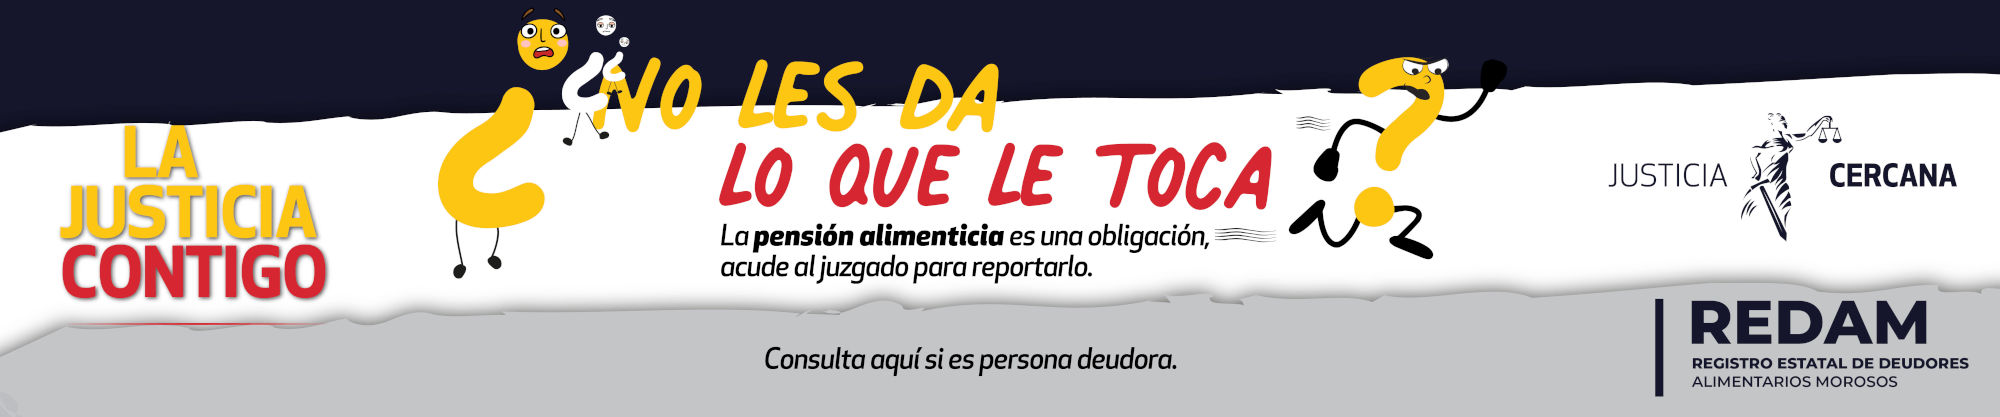
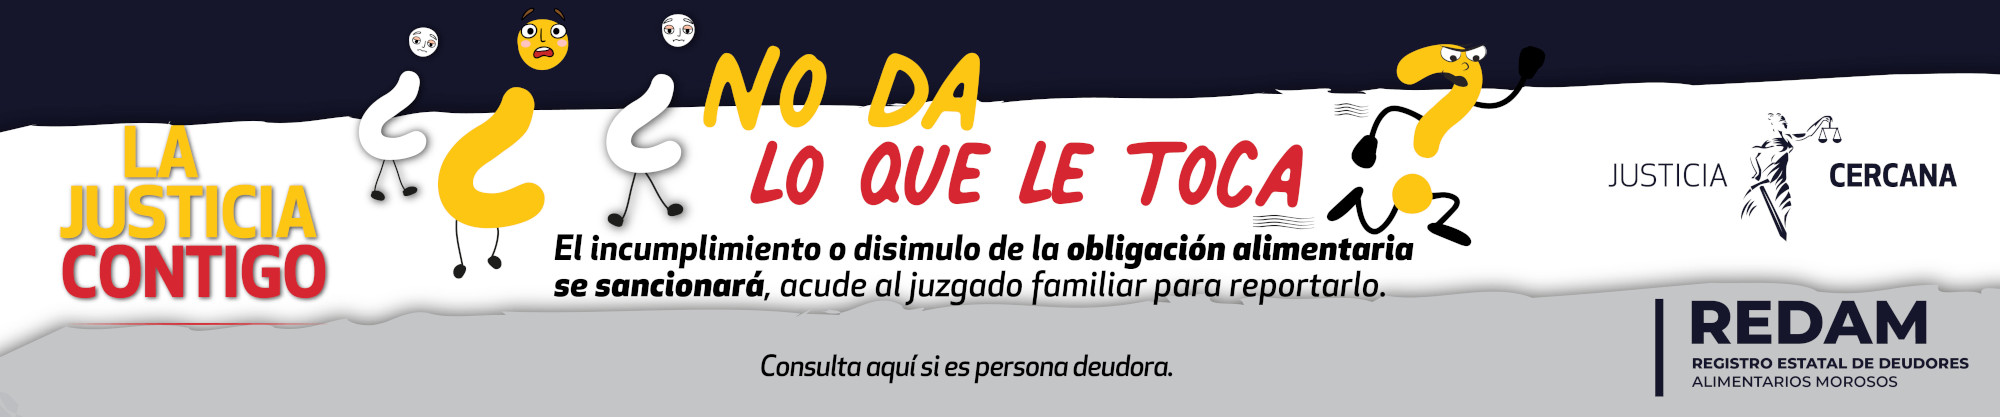
Cambia imagen carrusel REDAM

diff --git a/index.html b/index.html
@@ -220,31 +220,19 @@
                 <li data-target="#carruselCarusel" data-slide-to="7"></li>
                 <li data-target="#carruselCarusel" data-slide-to="8"></li>
                 <li data-target="#carruselCarusel" data-slide-to="9"></li>
-                <li data-target="#carruselCarusel" data-slide-to="10"></li>
-                <li data-target="#carruselCarusel" data-slide-to="11"></li>
-                <li data-target="#carruselCarusel" data-slide-to="12"></li>
-                <li data-target="#carruselCarusel" data-slide-to="13"></li>
-                <li data-target="#carruselCarusel" data-slide-to="14"></li>
-                <!-- li data-target="#carruselCarusel" data-slide-to="15"></li -->
             </ol>
             <div class="carousel-inner">
                 <div class="carousel-item active" data-interval="5000">
-                    <!-- a href="/consultas/redam/"><img class="d-block w-100" src="theme/images/carrusel-redam.jpg"></a>
+                    <a href="/consultas/redam/"><img class="d-block w-100" src="theme/images/carrusel-redam.jpg"></a>
                 </div>
-                <div class="carousel-item" data-interval="5000" -->
-                    <a href="conocenos/estructura/tribunal-superior-de-justicia/organos-no-jurisdiccionales/instituto-de-especializacion-judicial/examen-de-meritos/"><img class="d-block w-100" src="theme/images/carrusel-examen-meritos-materia-laboral-apertura.jpg"></a>
+                <div class="carousel-item" data-interval="5000">
+                    <a href="conocenos/estructura/tribunal-superior-de-justicia/organos-no-jurisdiccionales/instituto-de-especializacion-judicial/examen-de-meritos/"><img class="d-block w-100" src="theme/images/carrusel-examen-meritos-materia-laboral.jpg"></a>
                 </div>
                 <div class="carousel-item" data-interval="5000">
                     <a href="/derechos-humanos-e-igualdad-de-genero/queja-hostigamiento-y-acoso/"><img class="d-block w-100" src="theme/images/carrusel-protocolo-hasl.jpg"></a>
                 </div>
                 <div class="carousel-item" data-interval="5000">
                     <a href="/acuerdos-del-consejo/2022/2022-03-31-reglas-de-operacion-bedp/"><img class="d-block w-100" src="theme/images/carrusel-buzon-electronico-demandas-promociones.jpg"></a>
-                </div>
-                <div class="carousel-item" data-interval="5000">
-                    <a href="/conocenos/estructura/tribunal-superior-de-justicia/organos-no-jurisdiccionales/instituto-de-especializacion-judicial/"><img class="d-block w-100" src="theme/images/carrusel-diplomado-justicia-laboral.jpg"></a>
-                </div>
-                <div class="carousel-item" data-interval="5000">
-                    <a href="/acuerdos-del-consejo/2021/2021-06-30-acuerdo-c-085-2021-creacion-del-centro-de-justicia-civil-del-distrito-judicial-de-sabinas/"><img class="d-block w-100" src="theme/images/carrusel-juzgados-sabinas.jpg"></a>
                 </div>
                 <div class="carousel-item" data-interval="5000">
                     <a href="#"><img class="d-block w-100" src="theme/images/carrusel-app-mujer-segura.jpg"></a>
@@ -256,19 +244,7 @@
                     <a href="https://poderenlinea.pjecz.gob.mx/registro/" target="_blank"><img class="d-block w-100" src="theme/images/carrusel-poder-en-linea-registro-totalmente-en-linea.jpg"></a>
                 </div>
                 <div class="carousel-item" data-interval="5000">
-                    <a href="/noticias/2022/2022-01-26-26-enero-informe-anual-de-actividades-2021/"><img class="d-block w-100" src="theme/images/carrusel-informe-anual-de-actividades-2021.jpg"></a>
-                </div>
-                <div class="carousel-item" data-interval="5000">
-                    <a href="/conocenos/estructura/tribunal-superior-de-justicia/organos-jurisdiccionales/tribunales-especializados/juzgados-especializados-en-volencia-familiar-contra-las-mujeres/"><img class="d-block w-100" src="theme/images/carrusel-juzgados-especializados-violencia-familiar-contra-mujer-libro-blanco.jpg"></a>
-                </div>
-                <div class="carousel-item" data-interval="5000">
-                    <a href="/consultas/tesis-jurisprudencias/"><img class="d-block w-100" src="theme/images/carrusel-tesis-jurisprudencias.jpg"></a>
-                </div>
-                <div class="carousel-item" data-interval="5000">
                     <a href="ponte-trucha/"><img class="d-block w-100" src="theme/images/carrusel-ponte-trucha.jpg"></a>
-                </div>
-                <div class="carousel-item" data-interval="5000">
-                    <a href="noticias/2021/2021-02-22-politica-estatal-anticorrupcion-coahuila/"><img class="d-block w-100" src="theme/images/carrusel-peac.jpg"></a>
                 </div>
                 <div class="carousel-item" data-interval="5000">
                     <a href="#"><img class="d-block w-100" src="theme/images/carrusel-notificaciones-2021-06.jpg"></a>
